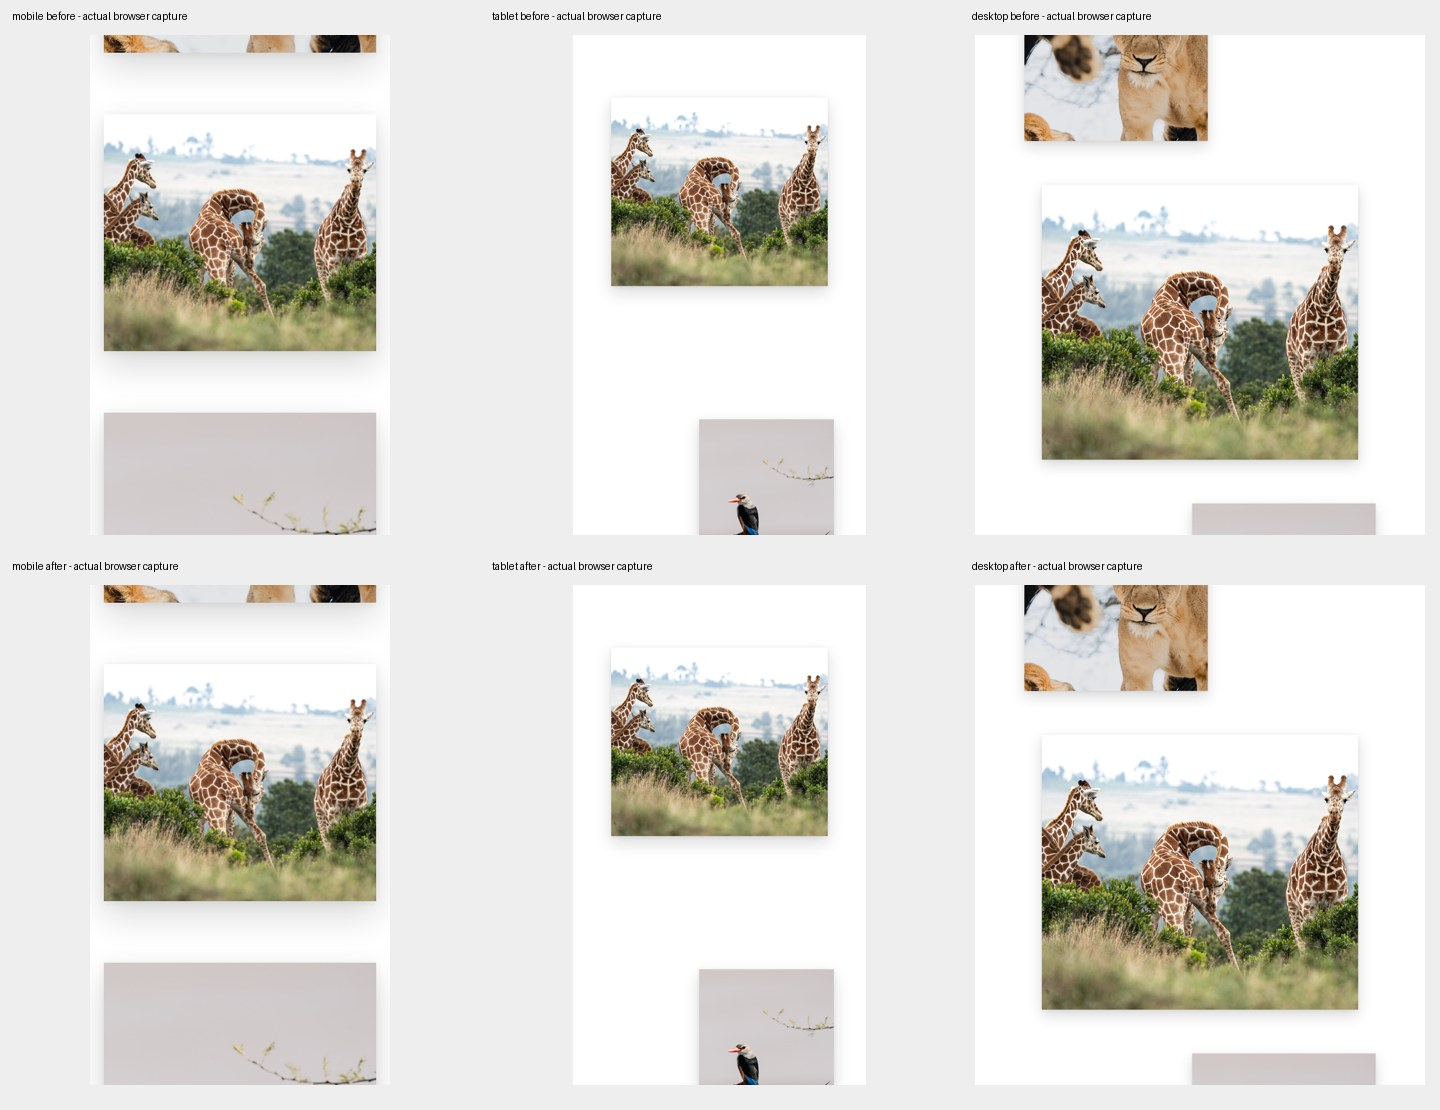
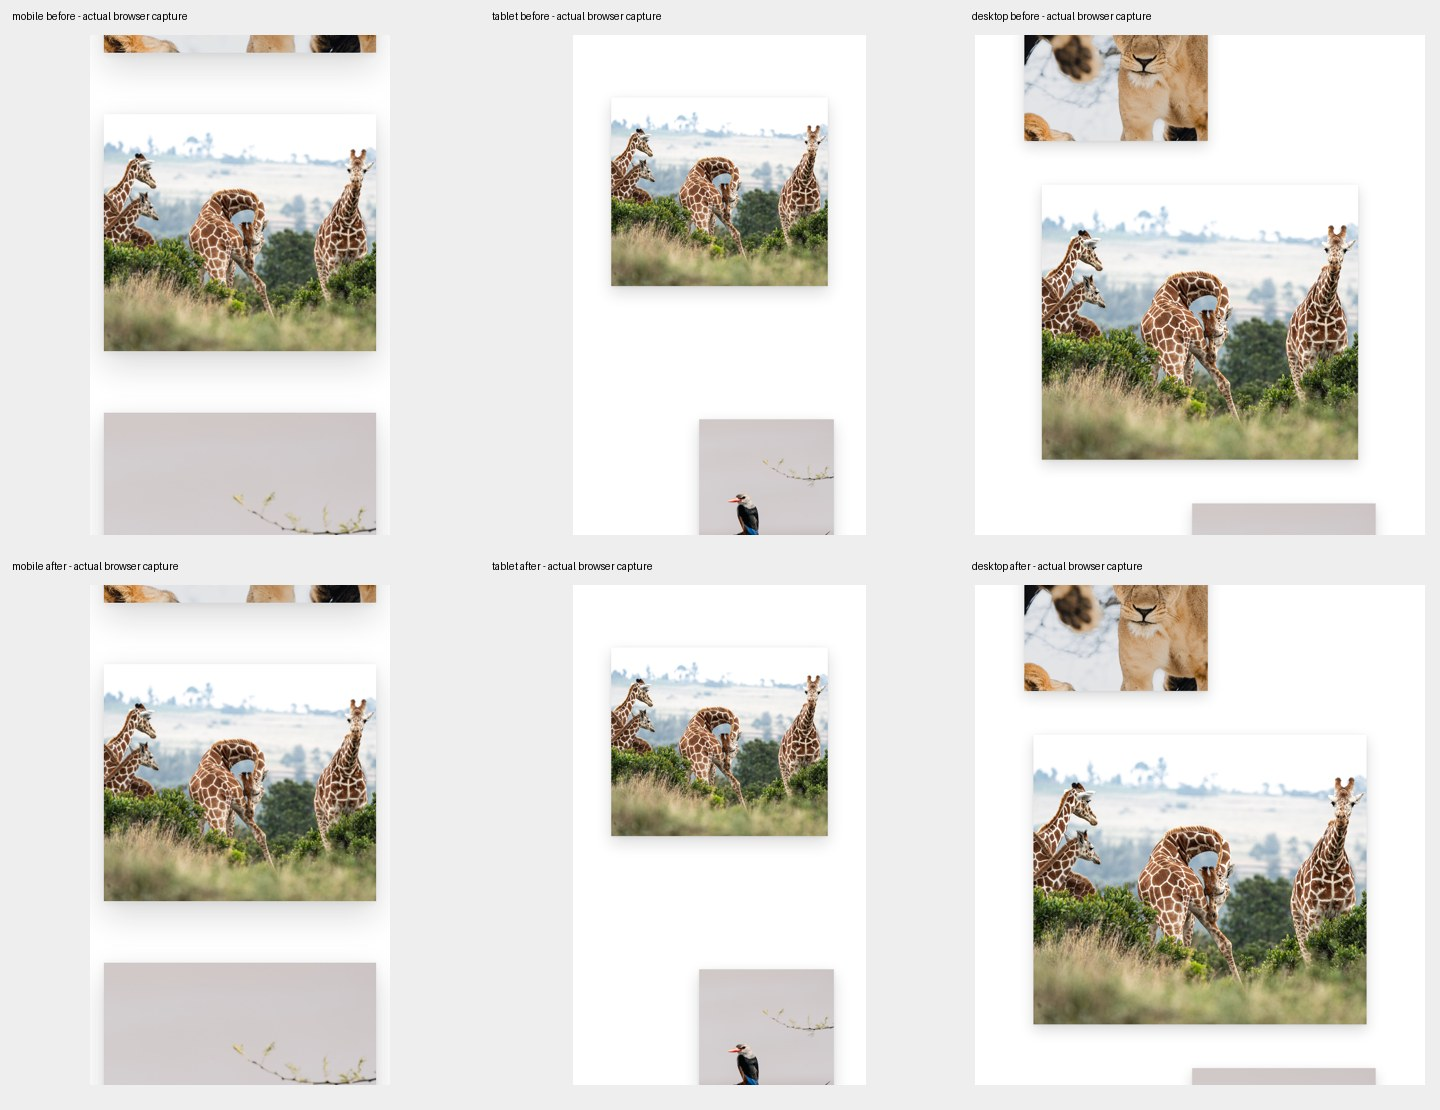
Apply landscape sizing after side plate rules

Changed region(s): [[0.7188, 0.6739, 0.9688, 0.9802]]

diff --git a/src/styles.css b/src/styles.css
@@ -349,15 +349,7 @@ img { max-width: 100%; }
   padding-top: 0;
 }
 
-.series-empty /* Horizontal photographs keep a generous width regardless of editorial alignment.
-   Intrinsic width/height attributes reserve their uncropped aspect ratio. */
-.plate--landscape img {
-  width: min(74vw, 1180px);
-  max-width: 100%;
-  max-height: none;
-}
-
-.end-frame {
+.series-empty .end-frame {
   min-height: 100vh;
   min-height: 100dvh;
 }
@@ -426,6 +418,15 @@ img { max-width: 100%; }
 .plate--right { justify-content: flex-end; padding-right: 11vw; }
 .plate--left img,
 .plate--right img { max-width: min(46vw, 760px); }
+
+/* Horizontal photographs keep a generous width regardless of editorial alignment.
+   Intrinsic width/height attributes reserve their uncropped aspect ratio. */
+.plate--landscape img {
+  width: min(74vw, 1180px);
+  max-width: 100%;
+  max-height: none;
+}
+
 
 .end-frame {
   min-height: 88vh;
